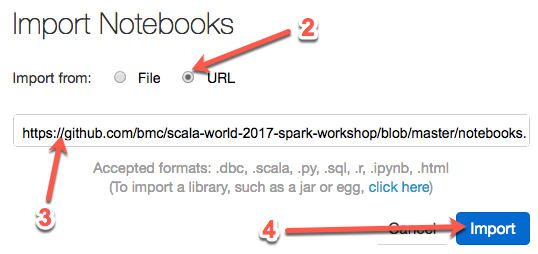
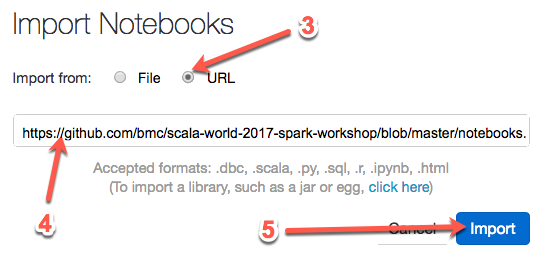
*More* image tweaks.

Changed region(s): [[0.0595, 0.7992, 0.119, 0.937], [0.5353, 0.0551, 0.5948, 0.1929], [0.4758, 0.8543, 0.5353, 0.9646]]

diff --git a/README.md b/README.md
@@ -21,13 +21,10 @@ Chrome, for best results. Then:
 2. Right click your home folder, then click **Import**.  
 ![](https://s3-us-west-2.amazonaws.com/curriculum-release/images/eLearning/import-labs-1.png)
 
-3. In the popup, click **URL**.  
-![](https://github.com/bmc/scala-world-2017-spark-workshop/raw/master/images/import.png)
-
+3. In the popup, click **URL**.
 4. Paste the DBC URL (from above) into the text box.
-
 5. Click the **Import** button.  
-![](https://s3-us-west-2.amazonaws.com/curriculum-release/images/eLearning/import-labs-3.png)
+![](https://github.com/bmc/scala-world-2017-spark-workshop/raw/master/images/import.png)
 
 6. Wait for the import to finish. This can take a minute or so to complete.
 
